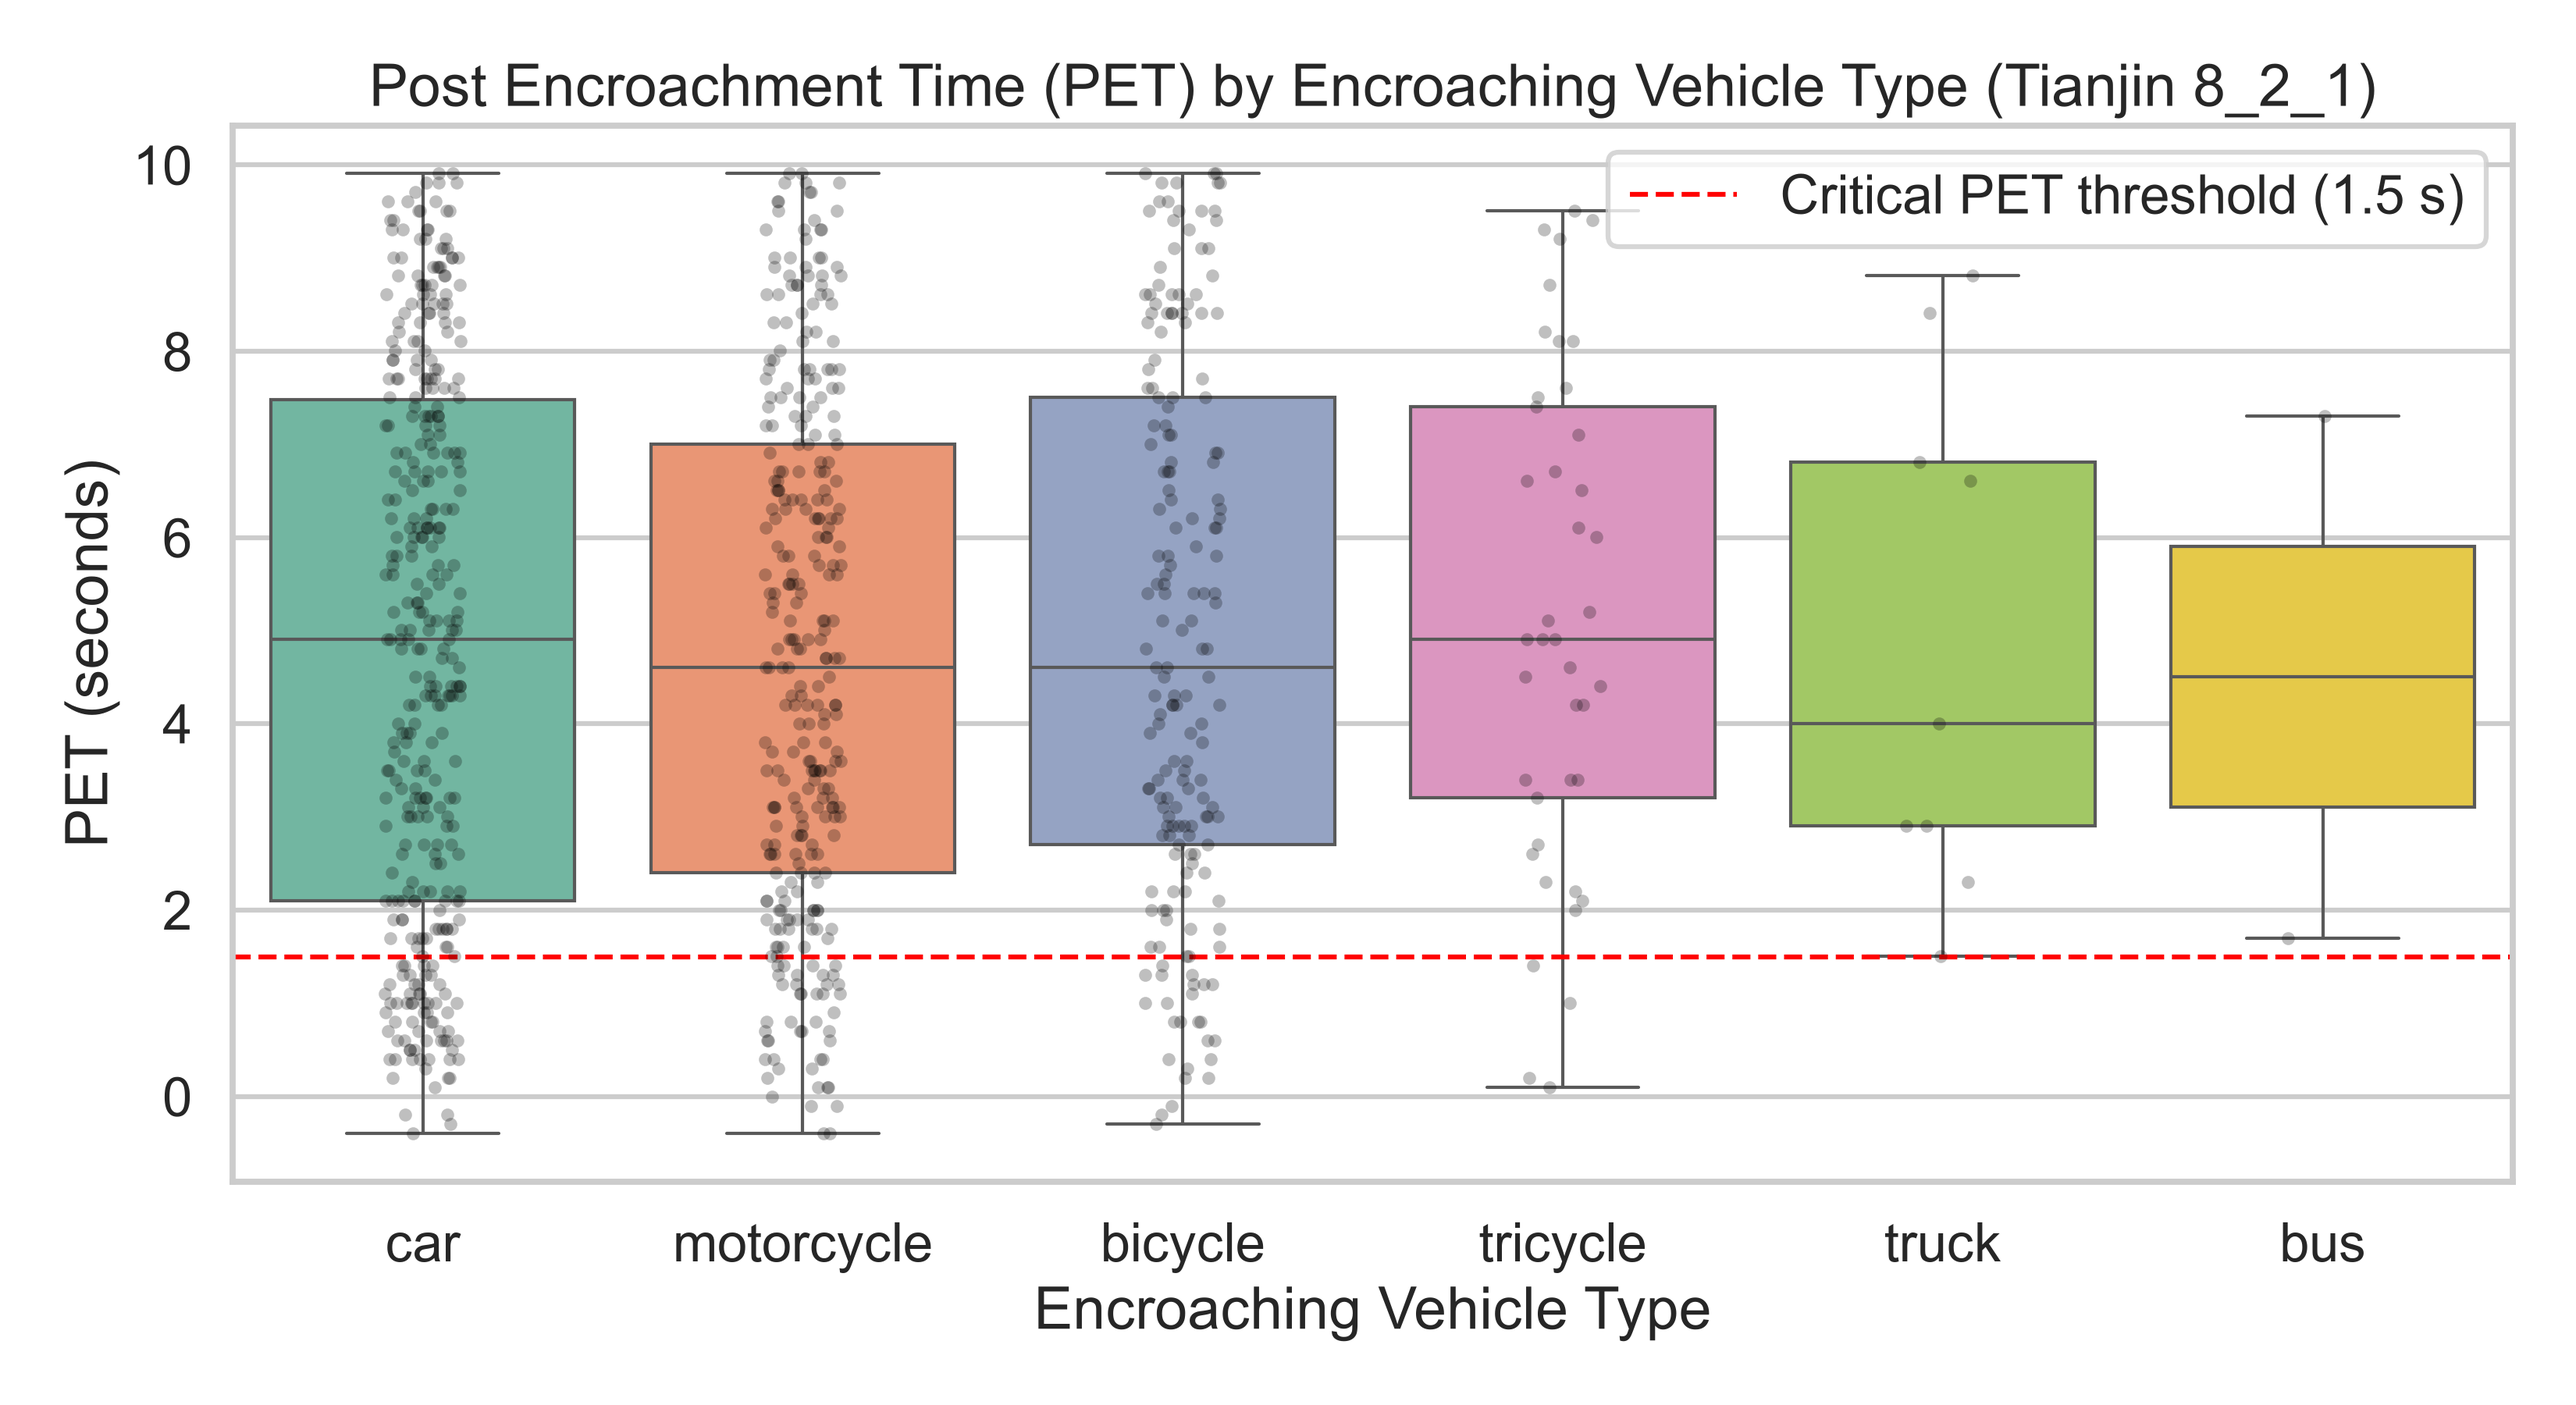
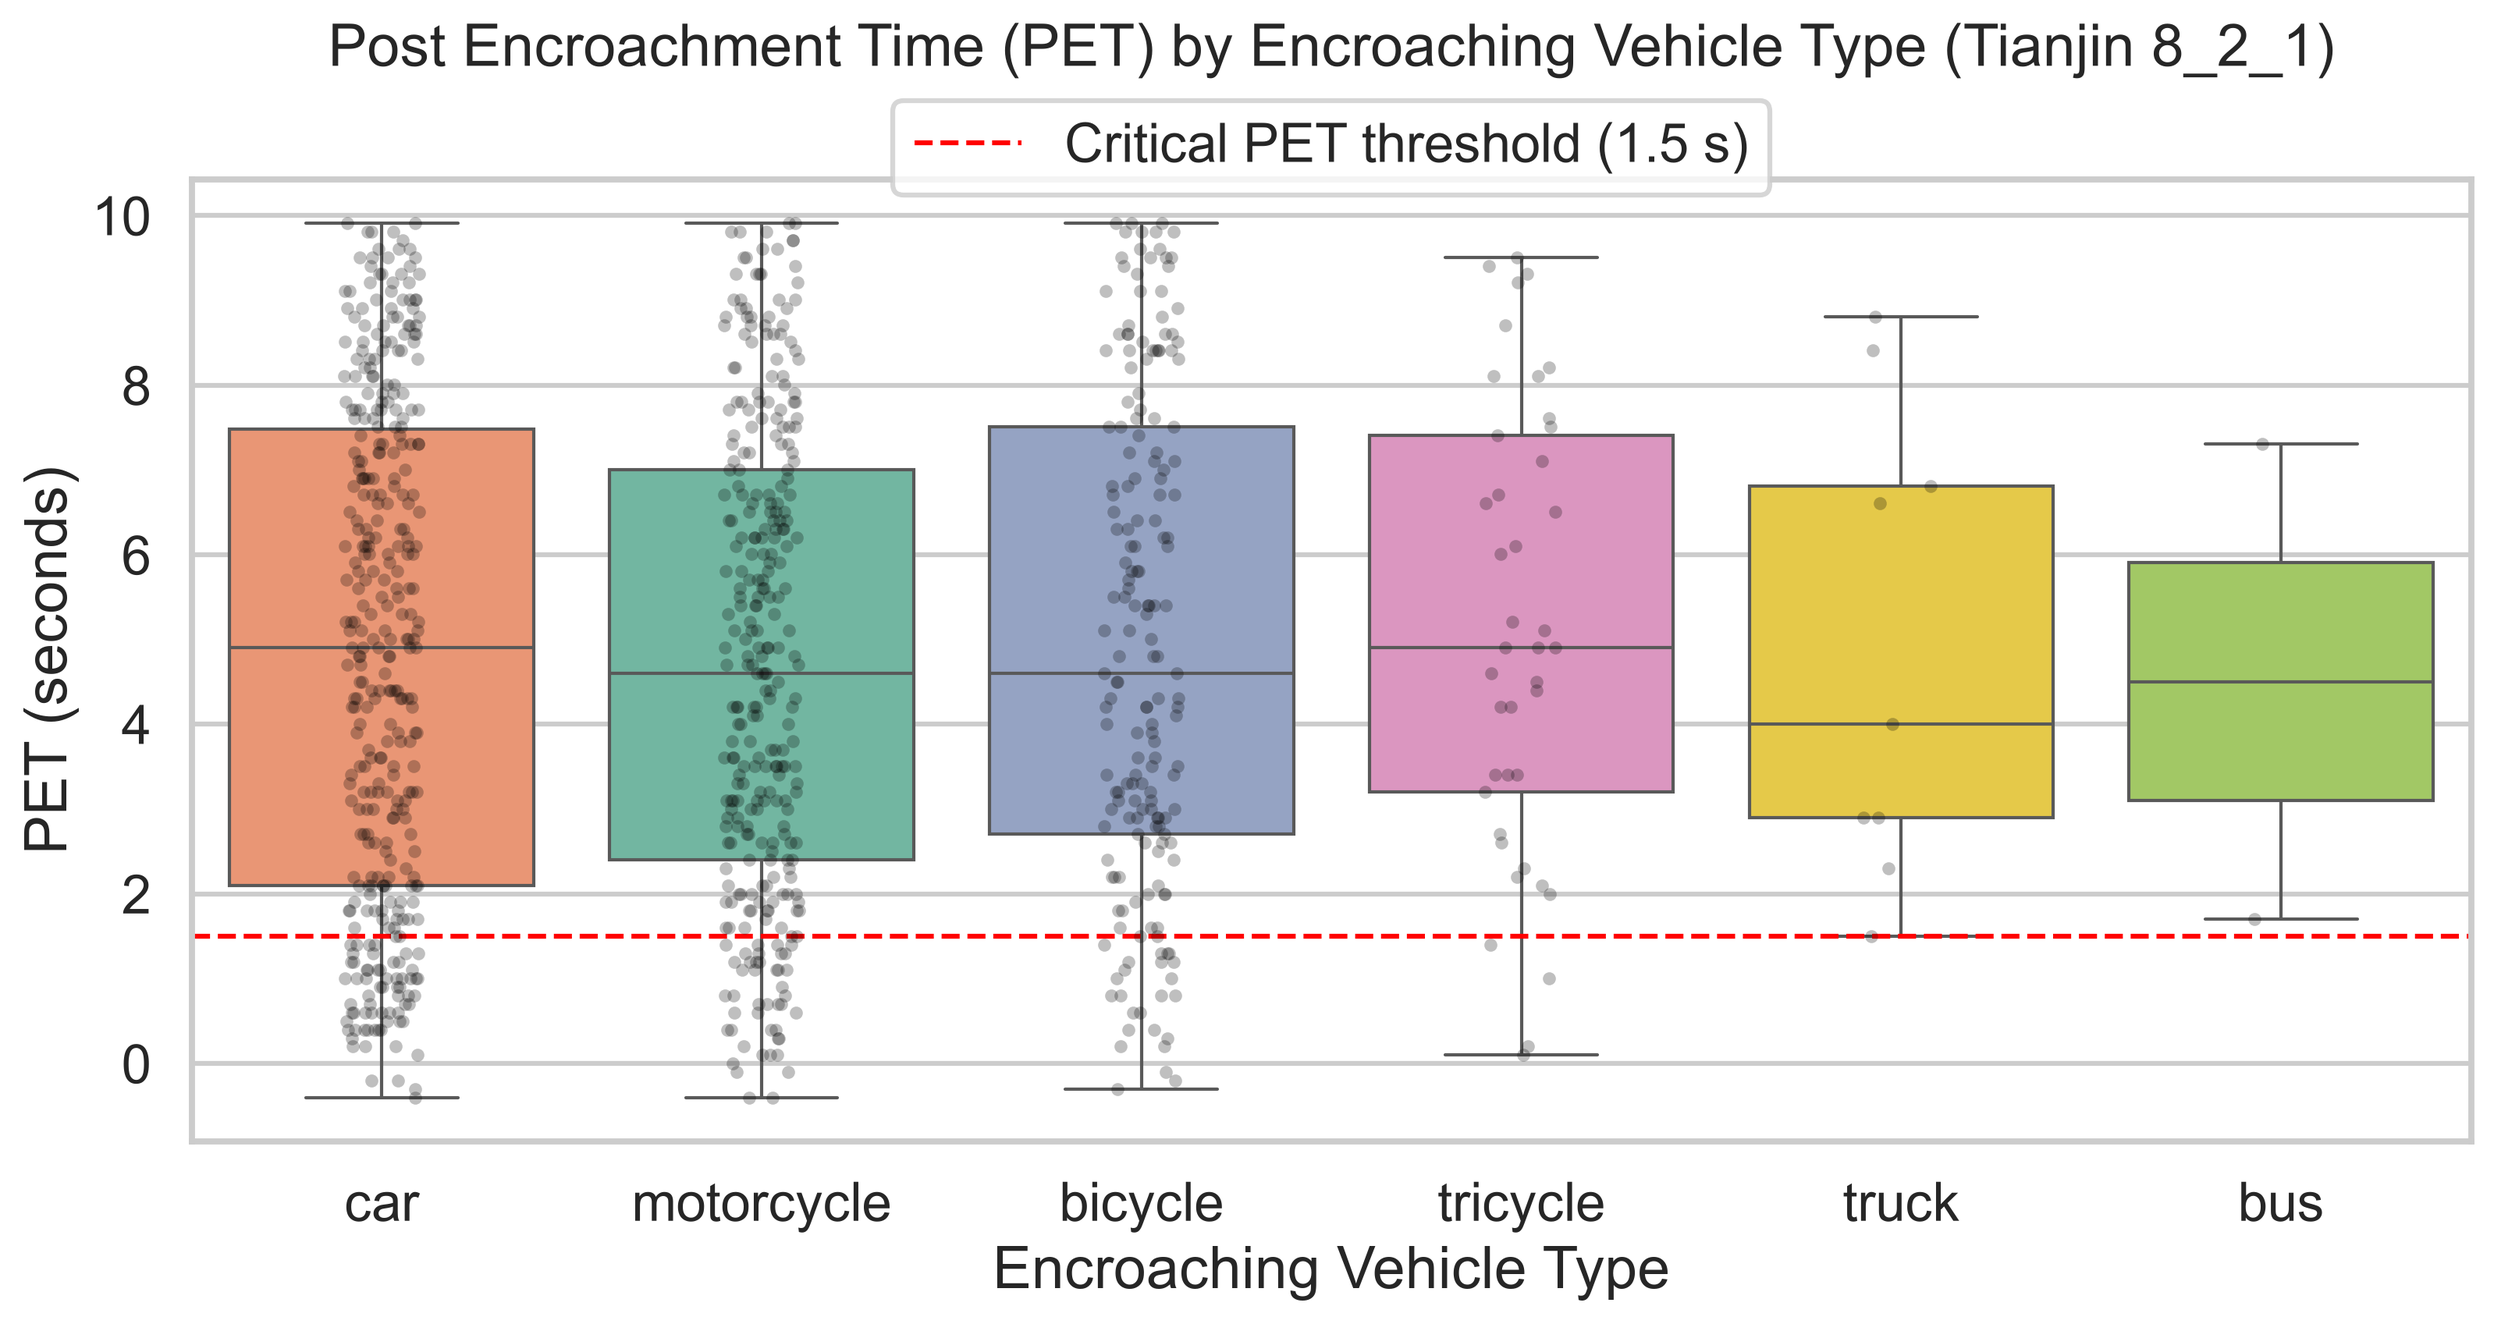
fix legend

diff --git a/compute_pet.py b/compute_pet.py
@@ -2,6 +2,8 @@ import os
 import math
 import numpy as np
 import pandas as pd
+import matplotlib.pyplot as plt
+import seaborn as sns
 from shapely.geometry import Polygon
 from shapely.affinity import rotate, translate
 from shapely.ops import unary_union
@@ -149,6 +151,73 @@ def compute_pair_pet(v1: dict, v2: dict):
     }
 
 
+def generate_plots(df_pet: pd.DataFrame):
+    print("Generating PET charts...")
+    sns.set_theme(style="whitegrid", context="talk")
+
+    # 1. Plot: PET distribution by Encroaching Vehicle Type
+    order_types = df_pet["second_agent_type"].value_counts().index
+    plt.figure(figsize=(11, 6))
+    sns.boxplot(
+        data=df_pet,
+        x="second_agent_type",
+        y="pet_sec",
+        hue="second_agent_type",
+        order=order_types,
+        palette="Set2",
+        showfliers=False,
+        legend=False,
+    )
+    sns.stripplot(
+        data=df_pet,
+        x="second_agent_type",
+        y="pet_sec",
+        order=order_types,
+        color="black",
+        alpha=0.25,
+        size=4,
+        jitter=True,
+    )
+    plt.axhline(1.5, color="red", linestyle="--", linewidth=1.5, label="Critical PET threshold (1.5 s)")
+    plt.title("Post Encroachment Time (PET) by Encroaching Vehicle Type (Tianjin 8_2_1)", pad=35)
+    plt.xlabel("Encroaching Vehicle Type")
+    plt.ylabel("PET (seconds)")
+    plt.legend(loc="upper center", bbox_to_anchor=(0.5, 1.11), frameon=True)
+    plt.tight_layout()
+    plt.savefig(os.path.join(OUTPUT_DIR, "pet_by_vehicle_type.png"), dpi=300, bbox_inches="tight")
+    plt.close()
+
+    # 2. Plot: PET comparison — Red-Light Running vs. Compliant Crossing
+    top_modes = ["car", "motorcycle", "bicycle", "tricycle"]
+    df_sub = df_pet[
+        (df_pet["second_agent_type"].isin(top_modes)) &
+        (df_pet["second_violation"].isin(["No violation of traffic lights", "red-light running"]))
+    ].copy()
+
+    df_sub["Violation Status"] = df_sub["second_violation"].replace({
+        "No violation of traffic lights": "Compliant (Green)",
+        "red-light running": "Red-Light Running"
+    })
+
+    plt.figure(figsize=(12, 6))
+    sns.boxplot(
+        data=df_sub,
+        x="second_agent_type",
+        y="pet_sec",
+        hue="Violation Status",
+        order=top_modes,
+        palette={"Compliant (Green)": "#4daf4a", "Red-Light Running": "#e41a1c"},
+    )
+    plt.axhline(1.5, color="black", linestyle="--", linewidth=1.5, label="Critical PET threshold (1.5 s)")
+    plt.title("PET Comparison: Compliant vs. Red-Light Running by Vehicle Type", pad=38)
+    plt.xlabel("Encroaching Vehicle Type")
+    plt.ylabel("PET (seconds)")
+    plt.legend(loc="upper center", bbox_to_anchor=(0.5, 1.13), ncol=3, frameon=True)
+    plt.tight_layout()
+    plt.savefig(os.path.join(OUTPUT_DIR, "pet_red_light_comparison.png"), dpi=300, bbox_inches="tight")
+    plt.close()
+
+
 def main():
     os.makedirs(OUTPUT_DIR, exist_ok=True)
     tracks = load_data()
@@ -188,8 +257,10 @@ def main():
     )
     summary_violation.to_csv(os.path.join(OUTPUT_DIR, "pet_by_violation_and_type.csv"))
 
+    generate_plots(df_pet)
+
     print(f"\nDone! Found {len(df_pet)} valid crossing conflict events.")
-    print(f"Results saved to '{OUTPUT_DIR}/'\n")
+    print(f"Results and charts saved to '{OUTPUT_DIR}/'\n")
     print("--- PET Summary by Encroaching Vehicle Type (seconds) ---")
     print(summary_type)
     print("\n--- PET Summary by Signal Violation Behavior (seconds) ---")
